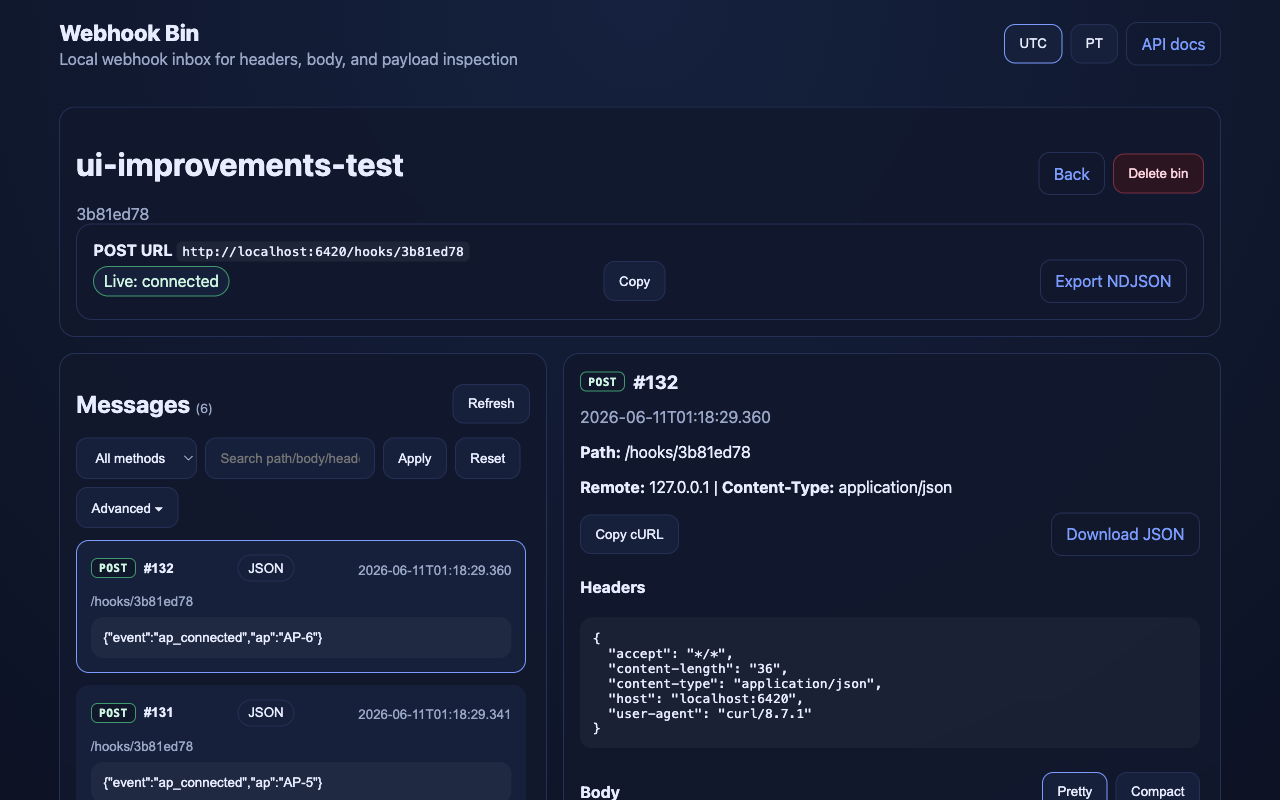
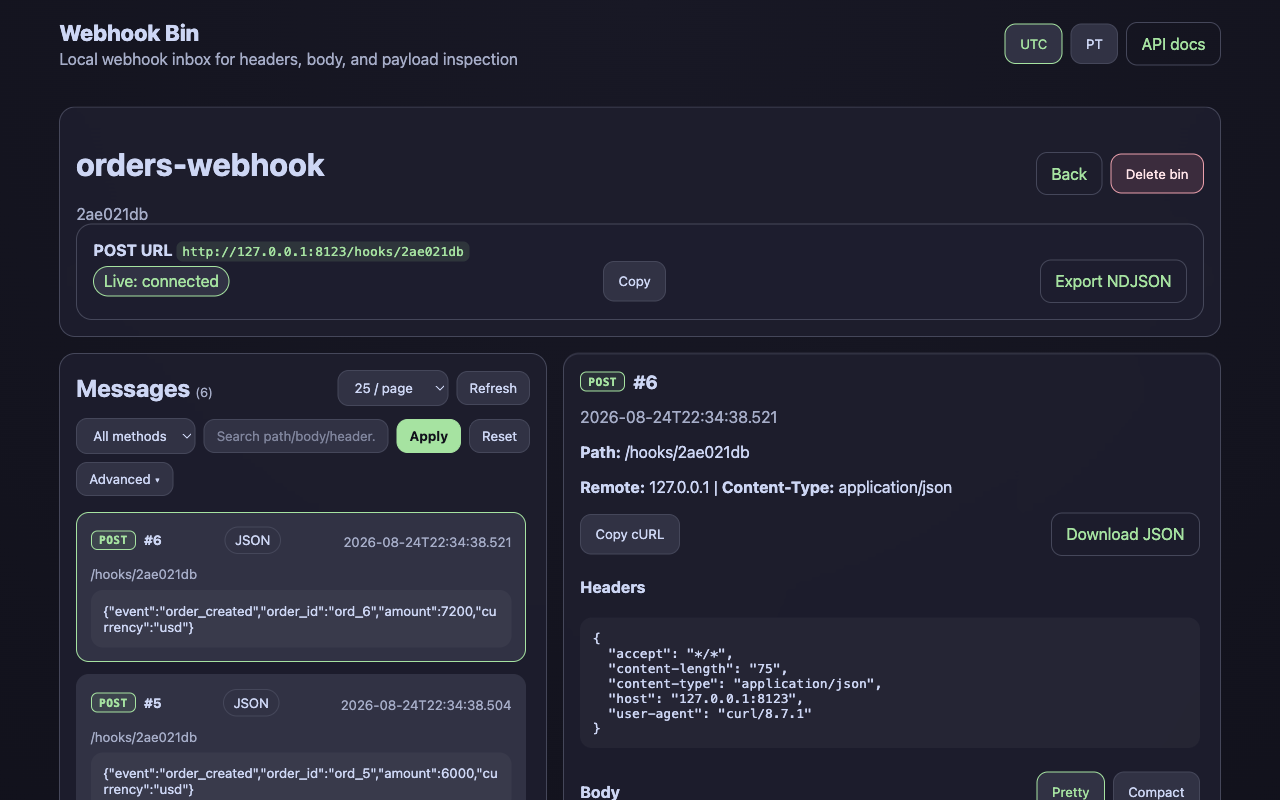
style(ui): restyle with catppuccin mocha, green primary accent
Ad-hoc navy/blue palette replaced with full Catppuccin Mocha token
set for a cohesive, consistent theme. Green is the primary accent
(CTAs, POST, verified signature, live-ok); other Mocha hues carry
secondary semantic meaning (blue=GET, peach=PUT, yellow=PATCH/
missing signature, red/maroon=DELETE/danger/failed).

- add .btn-primary for Create bin / Apply CTAs
- add :focus-visible rings, card hover elevation, themed
  scrollbar/selection, unified transitions
- update favicon SVG fills to match new palette
- refresh docs/screenshots/*.png to reflect new theme

No JS, DOM structure, or backend behavior changes; colors are
fully isolated in styles.css plus two SVG fills in main.py.

diff --git a/webhook_bin/static/styles.css b/webhook_bin/static/styles.css
@@ -1,44 +1,85 @@
 :root {
   color-scheme: dark;
-  --bg: #0b1020;
-  --panel: #11182c;
-  --panel-2: #16203a;
-  --text: #e7ecff;
-  --muted: #9aa7c7;
-  --line: #243055;
-  --accent: #7c9cff;
+
+  /* Catppuccin Mocha - base tones */
+  --crust: #11111b;
+  --mantle: #181825;
+  --base: #1e1e2e;
+  --surface0: #313244;
+  --surface1: #45475a;
+  --surface2: #585b70;
+  --overlay0: #6c7086;
+  --overlay1: #7f849c;
+  --ctp-text: #cdd6f4;
+  --subtext0: #a6adc8;
+  --subtext1: #bac2de;
+
+  /* Catppuccin Mocha - accents */
+  --green: #a6e3a1;
+  --teal: #94e2d5;
+  --blue: #89b4fa;
+  --sky: #89dceb;
+  --lavender: #b4befe;
+  --peach: #fab387;
+  --yellow: #f9e2af;
+  --red: #f38ba8;
+  --maroon: #eba0ac;
+
+  /* Semantic aliases (used throughout this file) */
+  --bg: var(--crust);
+  --panel: var(--base);
+  --panel-2: var(--surface0);
+  --text: var(--ctp-text);
+  --muted: var(--subtext0);
+  --line: var(--surface1);
+  --accent: var(--green);
+  --accent-contrast: var(--crust);
+
+  --radius-sm: 0.4rem;
+  --radius-md: 0.7rem;
+  --radius-lg: 1rem;
+  --transition-fast: 150ms ease;
 }
 
 * { box-sizing: border-box; }
 body {
   margin: 0;
   font-family: Inter, system-ui, sans-serif;
-  background: radial-gradient(circle at top, #15213e, var(--bg));
+  background: radial-gradient(circle at top, var(--mantle), var(--bg));
   color: var(--text);
 }
-a { color: var(--accent); text-decoration: none; }
+a { color: var(--accent); text-decoration: none; transition: color var(--transition-fast); }
+a:hover { color: var(--teal); }
+::selection { background: var(--accent); color: var(--accent-contrast); }
 code {
-  background: rgba(255,255,255,0.06);
+  background: rgba(166, 227, 161, 0.12);
+  color: var(--green);
   padding: 0.15rem 0.35rem;
-  border-radius: 0.35rem;
+  border-radius: var(--radius-sm);
 }
 .topbar, .shell { max-width: 1200px; margin: 0 auto; padding: 1.2rem; }
 .topbar { display: flex; justify-content: space-between; align-items: center; gap: 1rem; }
-.brand { font-size: 1.4rem; font-weight: 800; color: var(--text); }
+.brand { font-size: 1.4rem; font-weight: 800; color: var(--text); transition: color var(--transition-fast); }
+.brand:hover { color: var(--green); }
 .subtitle, .muted { color: var(--muted); margin: 0.25rem 0 0; }
 .shell { display: grid; gap: 1rem; }
 .timezone-toggle { display: flex; gap: 0.5rem; }
 .panel, .card, .empty, .callout {
-  background: rgba(17, 24, 44, 0.88);
+  background: rgba(30, 30, 46, 0.88);
   border: 1px solid var(--line);
-  border-radius: 1rem;
+  border-radius: var(--radius-lg);
   padding: 1rem;
   backdrop-filter: blur(8px);
+  transition: border-color var(--transition-fast), box-shadow var(--transition-fast);
+}
+.card:hover {
+  border-color: var(--surface2);
+  box-shadow: 0 10px 28px rgba(17, 17, 27, 0.45);
 }
 .grid { display: grid; gap: 1rem; grid-template-columns: repeat(auto-fit, minmax(300px, 1fr)); }
 .hero { display: grid; grid-template-columns: 2fr 1fr; gap: 1rem; align-items: stretch; }
 .hero-copy, .hero-stats { display: grid; gap: 0.75rem; }
-.eyebrow { text-transform: uppercase; letter-spacing: 0.16em; font-size: 0.75rem; color: var(--accent); margin: 0; }
+.eyebrow { text-transform: uppercase; letter-spacing: 0.16em; font-size: 0.75rem; color: var(--green); margin: 0; font-weight: 700; }
 .hero h1 { margin: 0; font-size: clamp(2rem, 4vw, 3.5rem); line-height: 1.05; }
 .hero .inline-form { margin-top: 0.5rem; }
 .hero-stats { grid-template-columns: repeat(3, minmax(0, 1fr)); }
@@ -46,10 +87,12 @@ code {
   display: grid;
   gap: 0.35rem;
   padding: 1rem;
-  border-radius: 0.9rem;
-  background: rgba(255,255,255,0.04);
+  border-radius: var(--radius-lg);
+  background: rgba(166, 227, 161, 0.05);
   border: 1px solid var(--line);
+  transition: border-color var(--transition-fast);
 }
+.stat:hover { border-color: var(--green); }
 .stat-value {
   min-width: 0;
   font-size: 1rem;
@@ -71,20 +114,37 @@ code {
 .card-actions { display: flex; align-items: center; gap: 0.5rem; }
 input, button, select {
   border: 1px solid var(--line);
-  border-radius: 0.7rem;
+  border-radius: var(--radius-md);
   padding: 0.7rem 0.9rem;
   background: var(--panel-2);
   color: var(--text);
+  font-family: inherit;
+  transition: border-color var(--transition-fast), box-shadow var(--transition-fast), background var(--transition-fast), transform var(--transition-fast);
 }
+input::placeholder { color: var(--overlay1); }
 button, .ghost { cursor: pointer; }
-button:hover, .ghost:hover { border-color: var(--accent); }
-.danger {
-  border-color: #7a2f44;
-  color: #ffd5df;
-  background: #2b1520;
+button:hover, .ghost:hover { border-color: var(--green); }
+button:active { transform: translateY(1px); }
+input:focus-visible, button:focus-visible, select:focus-visible, a:focus-visible {
+  outline: none;
+  border-color: var(--green);
+  box-shadow: 0 0 0 3px rgba(166, 227, 161, 0.25);
 }
-.danger:hover { border-color: #cc4f73; }
-.ghost { padding: 0.7rem 0.9rem; border: 1px solid var(--line); border-radius: 0.7rem; }
+/* Primary action: solid green, used sparingly for the single main CTA per view */
+.btn-primary {
+  background: var(--green);
+  border-color: var(--green);
+  color: var(--accent-contrast);
+  font-weight: 700;
+}
+.btn-primary:hover { background: var(--teal); border-color: var(--teal); }
+.danger {
+  border-color: var(--maroon);
+  color: #ffe4e9;
+  background: rgba(243, 139, 168, 0.14);
+}
+.danger:hover { border-color: var(--red); }
+.ghost { padding: 0.7rem 0.9rem; border: 1px solid var(--line); border-radius: var(--radius-md); }
 .meta { display: grid; gap: 0.7rem; margin-top: 1rem; }
 .meta div { display: grid; gap: 0.2rem; }
 .meta dt { color: var(--muted); font-size: 0.85rem; }
@@ -126,12 +186,22 @@ button:hover, .ghost:hover { border-color: var(--accent); }
   overflow-y: auto;
   padding-right: 0.25rem;
   padding-top: 0.75rem;
+  scrollbar-color: var(--surface2) transparent;
+  scrollbar-width: thin;
 }
 .detail-scroll {
   flex: 1;
   overflow-y: auto;
   padding-right: 0.25rem;
+  scrollbar-color: var(--surface2) transparent;
+  scrollbar-width: thin;
 }
+.message-list-scroll::-webkit-scrollbar, .detail-scroll::-webkit-scrollbar { width: 8px; }
+.message-list-scroll::-webkit-scrollbar-thumb, .detail-scroll::-webkit-scrollbar-thumb {
+  background: var(--surface2);
+  border-radius: 999px;
+}
+.message-list-scroll::-webkit-scrollbar-thumb:hover, .detail-scroll::-webkit-scrollbar-thumb:hover { background: var(--overlay0); }
 @media (max-width: 1100px) {
   .split-layout { grid-template-columns: 1fr; }
   .split-panel { height: 50vh; }
@@ -146,7 +216,7 @@ button:hover, .ghost:hover { border-color: var(--accent); }
   border: 1px solid transparent;
   text-align: left;
 }
-.message-item:hover, .message-item.active { border-color: var(--accent); }
+.message-item:hover, .message-item.active { border-color: var(--green); }
 .message-head { display: flex; justify-content: space-between; gap: 1rem; flex-wrap: wrap; align-items: center; }
 .message-id-method { display: inline-flex; align-items: center; gap: 0.5rem; }
 .method {
@@ -160,11 +230,11 @@ button:hover, .ghost:hover { border-color: var(--accent); }
   background: var(--panel);
   color: var(--muted);
 }
-.method-POST { border-color: #3f9b6f; color: #cff6e3; }
-.method-GET { border-color: #7c9cff; color: #d6e0ff; }
-.method-PUT { border-color: #9f7f2f; color: #ffeebb; }
-.method-PATCH { border-color: #9f7f2f; color: #ffeebb; }
-.method-DELETE { border-color: #cc4f73; color: #ffd5df; }
+.method-POST { border-color: var(--green); color: var(--green); background: rgba(166, 227, 161, 0.1); }
+.method-GET { border-color: var(--blue); color: var(--blue); background: rgba(137, 180, 250, 0.1); }
+.method-PUT { border-color: var(--peach); color: var(--peach); background: rgba(250, 179, 135, 0.1); }
+.method-PATCH { border-color: var(--yellow); color: var(--yellow); background: rgba(249, 226, 175, 0.1); }
+.method-DELETE { border-color: var(--red); color: var(--red); background: rgba(243, 139, 168, 0.1); }
 .message-body {
   white-space: pre-wrap;
   word-break: break-word;
@@ -174,7 +244,7 @@ button:hover, .ghost:hover { border-color: var(--accent); }
 }
 .body-head { display: flex; justify-content: space-between; align-items: center; gap: 0.75rem; }
 .body-toggle { display: flex; gap: 0.5rem; }
-.toggle-btn.active { border-color: var(--accent); }
+.toggle-btn.active { border-color: var(--green); color: var(--green); }
 .detail-empty {
   color: var(--muted);
   display: flex;
@@ -194,7 +264,7 @@ button:hover, .ghost:hover { border-color: var(--accent); }
   font-size: 0.8rem;
   padding: 0.4rem 0.7rem;
 }
-.ghost-danger:hover { border-color: #cc4f73; color: #ffd5df; background: #2b1520; }
+.ghost-danger:hover { border-color: var(--red); color: #ffe4e9; background: rgba(243, 139, 168, 0.14); }
 .meta-url-row { display: flex; align-items: center; gap: 0.5rem; flex-wrap: wrap; }
 .icon-btn {
   padding: 0.25rem 0.5rem;
@@ -204,7 +274,7 @@ button:hover, .ghost:hover { border-color: var(--accent); }
   border-color: var(--line);
   color: var(--muted);
 }
-.icon-btn:hover { border-color: var(--accent); color: var(--text); }
+.icon-btn:hover { border-color: var(--green); color: var(--text); }
 .count-badge { font-size: 0.8rem; font-weight: 400; color: var(--muted); white-space: nowrap; }
 .filter-form { display: grid; gap: 0.5rem; }
 .filter-row { display: flex; gap: 0.5rem; flex-wrap: wrap; align-items: center; }
@@ -213,9 +283,9 @@ button:hover, .ghost:hover { border-color: var(--accent); }
 .filter-advanced { display: flex; gap: 0.5rem; flex-wrap: wrap; }
 .filter-advanced input { flex: 1 1 120px; min-width: 0; padding: 0.5rem 0.75rem; }
 .filter-advanced.hidden { display: none; }
-.pill-sig-verified { border-color: #3f9b6f; color: #cff6e3; }
-.pill-sig-failed { border-color: #cc4f73; color: #ffd5df; }
-.pill-sig-missing { border-color: #9f7f2f; color: #ffeebb; }
+.pill-sig-verified { border-color: var(--green); color: var(--green); background: rgba(166, 227, 161, 0.1); }
+.pill-sig-failed { border-color: var(--red); color: var(--red); background: rgba(243, 139, 168, 0.1); }
+.pill-sig-missing { border-color: var(--yellow); color: var(--yellow); background: rgba(249, 226, 175, 0.1); }
 .copy-btn { white-space: nowrap; }
 .toast-root {
   position: fixed;
@@ -226,16 +296,16 @@ button:hover, .ghost:hover { border-color: var(--accent); }
   z-index: 999;
 }
 .toast {
-  background: rgba(17, 24, 44, 0.96);
+  background: rgba(30, 30, 46, 0.96);
   border: 1px solid var(--line);
-  border-left: 4px solid var(--accent);
-  border-radius: 0.7rem;
+  border-left: 4px solid var(--green);
+  border-radius: var(--radius-md);
   padding: 0.7rem 0.9rem;
   min-width: 220px;
 }
-.toast.error { border-left-color: #cc4f73; }
-.live-ok { border-color: #3f9b6f; color: #cff6e3; }
-.live-fallback { border-color: #9f7f2f; color: #ffeebb; }
+.toast.error { border-left-color: var(--red); }
+.live-ok { border-color: var(--green); color: var(--green); }
+.live-fallback { border-color: var(--peach); color: var(--peach); }
 @media (max-width: 700px) {
   .hero, .topbar, .card-head, .inline-form, .toolbar, .hero-stats { grid-template-columns: 1fr; flex-direction: column; align-items: stretch; }
 }

diff --git a/webhook_bin/templates/bin.html b/webhook_bin/templates/bin.html
@@ -50,7 +50,7 @@
             <option value="OPTIONS">OPTIONS</option>
           </select>
           <input name="q" placeholder="Search path/body/header..." />
-          <button type="submit">Apply</button>
+          <button type="submit" class="btn-primary">Apply</button>
           <button type="button" id="filter-reset-btn" class="ghost">Reset</button>
           <button type="button" id="filter-advanced-btn" class="ghost">Advanced ▾</button>
         </div>

diff --git a/webhook_bin/templates/index.html b/webhook_bin/templates/index.html
@@ -9,7 +9,7 @@
     </p>
     <form id="create-bin-form" class="inline-form">
       <input name="name" placeholder="Bin name" />
-      <button type="submit">Create bin</button>
+      <button type="submit" class="btn-primary">Create bin</button>
     </form>
   </div>
   <div class="hero-stats">

diff --git a/webhook_bin/main.py b/webhook_bin/main.py
@@ -110,8 +110,8 @@ class VisitorLogMiddleware(BaseHTTPMiddleware):
 app.add_middleware(VisitorLogMiddleware)
 
 FAVICON_SVG = """<svg xmlns="http://www.w3.org/2000/svg" viewBox="0 0 64 64">
-  <rect width="64" height="64" rx="16" fill="#11182c"/>
-  <path d="M18 20h28v8H26v4h18v12H18z" fill="#7c9cff"/>
+  <rect width="64" height="64" rx="16" fill="#1e1e2e"/>
+  <path d="M18 20h28v8H26v4h18v12H18z" fill="#a6e3a1"/>
 </svg>
 """
 
